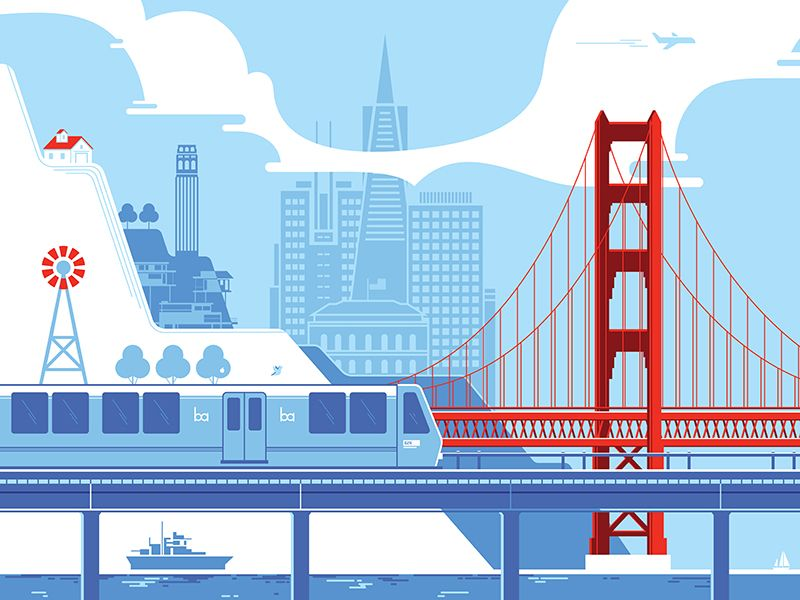
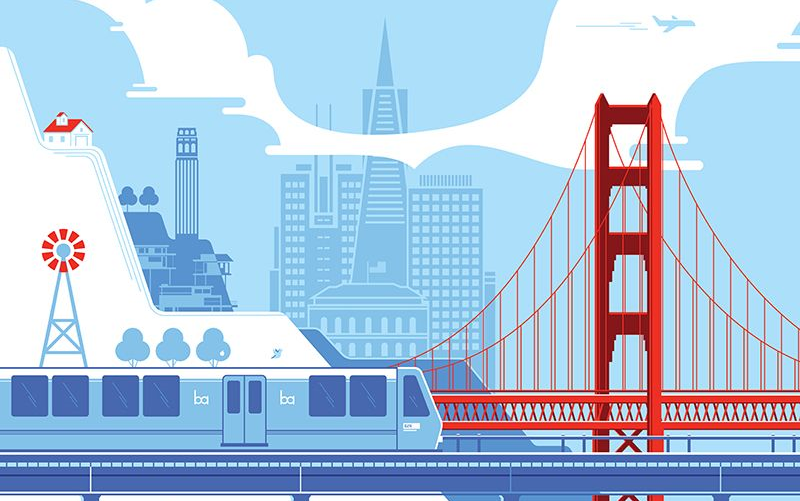
Cleaned BART Arrivals, fixed bug (<3 trains bug)

diff --git a/src/app/arrivals.component.html b/src/app/arrivals.component.html
@@ -24,12 +24,30 @@
     </div>    
 </div>
 
-<div class="arrival-times">
-    <ul>
-        <li *ngFor="let dest of etd" class="destination-item">
-            <div class="color-box" [ngStyle]="{'background-color': dest.estimate[0].color}"></div>
-            <span class="destination-name">{{ dest.destination }} </span>
-            <span class="departure-time">{{ dest.estimate[0].minutes }}, &nbsp; {{ dest.estimate[1].minutes }}, &nbsp; {{ dest.estimate[2].minutes }}</span>
-          </li>
-      </ul>
+<div class="bartArtContainer">
+    <div class="top-left">
+        <div class="bartArt">
+            <a href="https://www.pinterest.com/pin/san-francisco-bart--294141419406503673/">
+            <img src="assets/images/bartArt5.png" alt="BART Art"> </a>
+        </div>
+
+        <div class="arrival-times">
+            <h1>BART ARRIVALS:</h1>
+            <ul>
+                <li *ngFor="let dest of etd" class="destination-item">
+                    <div class="color-box" [ngStyle]="{'background-color': dest.estimate[0].color}"></div>
+                    <span class="destination-name">{{ dest.destination }} </span>
+                    <span class="departure-time">{{ dest.estimate[0].minutes }}, &nbsp; {{ dest.estimate[1].minutes }}, &nbsp; {{ dest.estimate[2].minutes }}</span>
+                </li>
+            </ul>  
+        </div>
+    </div>
+
+    <div class="top-right">
+        <div class="bartArt">
+            <a href="https://www.google.com/url?sa=i&url=https%3A%2F%2Fmrwallpaper.com%2Fwallpapers%2Fsan-francisco-skyline-digital-art-hd-apak1km2pkxe7tz5.html&psig=AOvVaw3Wam-dfkoyqXGIJLnJys3T&ust=1719645974184000&source=images&cd=vfe&opi=89978449&ved=0CBEQjRxqFwoTCIip2M3i_YYDFQAAAAAdAAAAABAE">
+            <img src="assets/images/sf2.png" alt="SF Art"> </a>
+        </div>
+    </div>
 </div>
+

diff --git a/src/app/arrivals.component.ts b/src/app/arrivals.component.ts
@@ -106,24 +106,40 @@ export class ArrivalsComponent implements OnInit, OnDestroy{
         }
 
         for(let i in this.etd){
-           let index = parseInt(i);
-           let line = this.etd[i];
+          let index = parseInt(i);
+          let line = this.etd[i];
 
-           for(let j in line.estimate){
+          //At the end of the day, a line may have less than two trains:
+          while(line.estimate.length < 3){
+            let newEstimate: Estimate = {
+              minutes: '--',
+              platform: '0',
+              direction: 'Northbound',
+              length: '0',
+              color: 'White',
+              hexcolor: '#000000',
+              bikeflag: '0',
+              delay: '0',
+              cancelflag: '1',
+              dynamicflag: '0'
+          };
+
+            line.estimate.push(newEstimate);
+          }
+
+          for(let j in line.estimate){
             let estimate = line.estimate[j];
-
-            //Fix color casing:
-            estimate.color = estimate.color[0] + estimate.color.slice(1).toLowerCase();
+            
             //Change Leaving to 0
             if (estimate.minutes == "Leaving"){
                 estimate.minutes = "0"
             }
+            //This is here to make it so there is a space if the number is a single digit
+            //Just makes it look pretty later on, no other functional purpose
             if (estimate.minutes.length == 1){
               estimate.minutes = "  " + estimate.minutes
-
             }
-           }
-
+          }
         }
     }
 

diff --git a/src/app/arrivals.component.css b/src/app/arrivals.component.css
@@ -75,10 +75,61 @@ img {
     margin: 0; /* Remove default margins */
 }
 
+.bartArtContainer {
+    display: flex;
+    justify-content: space-between;
+    padding: 5px;
+}
+
+.top-left {
+    width: 50%;
+    max-width: 50%;
+    height: 5%;
+    max-height: 5%;
+    background-color: #e5e1e1;
+    padding: 10px;
+    border-radius: 10px;
+}
+
+.top-right {
+    width: 50%;
+    max-width: 50%;
+    height: 5%;
+    max-height: 5%;
+}
+
+.bartArt {
+    width: 100%;
+    text-align: center;
+    overflow: hidden;
+}
+
+.bartArt img {
+    padding-left: 5px;
+    padding-right:5px;
+    padding-bottom: 10px;
+    width: 100%;
+    height: auto;
+    object-fit: cover; 
+    border-radius: 40px;
+}
 
 .arrival-times{
     background: linear-gradient(to right, #ffffff, #1faad8);
-    width: 50%;
+    padding: 10px;
+    border-radius: 10px;
+    text-align: center;
+}
+
+.arrival-times h1{
+    font-size: 2em;
+    font-weight: normal;
+    align-content: center;
+    font-family: "Century Gothic", CenturyGothic, Geneva, AppleGothic, sans-serif;
+    padding: 0px;
+    margin: 0px;
+    border-bottom: 2px solid #545353; /* Add a bottom border */
+    display: inline-block;
 }
 
 li.destination-item {
@@ -86,6 +137,7 @@ li.destination-item {
     font-size: .75vw;
     align-items: center;
     margin: 10px 0;
+    text-align: left;
   }
   
   .color-box {
@@ -94,7 +146,7 @@ li.destination-item {
     margin-right: 10px;
     border-radius: 10px;
   }
-  
+
   .destination-name {
     width: 70%;
     font-size: 3em;
